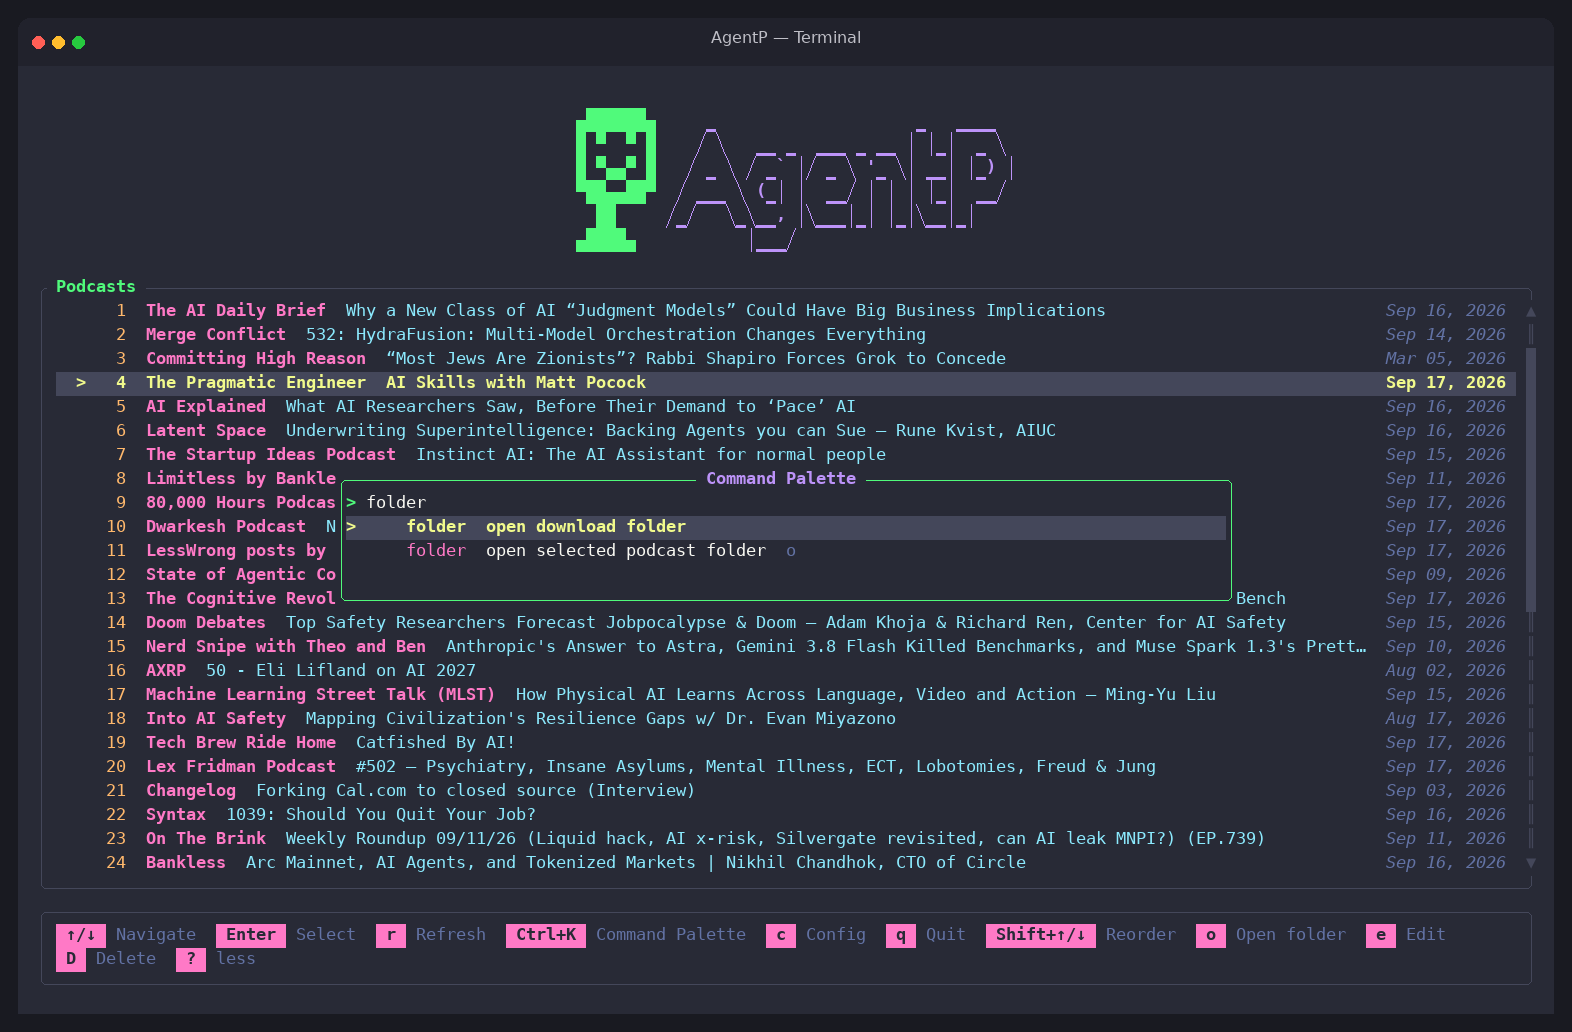
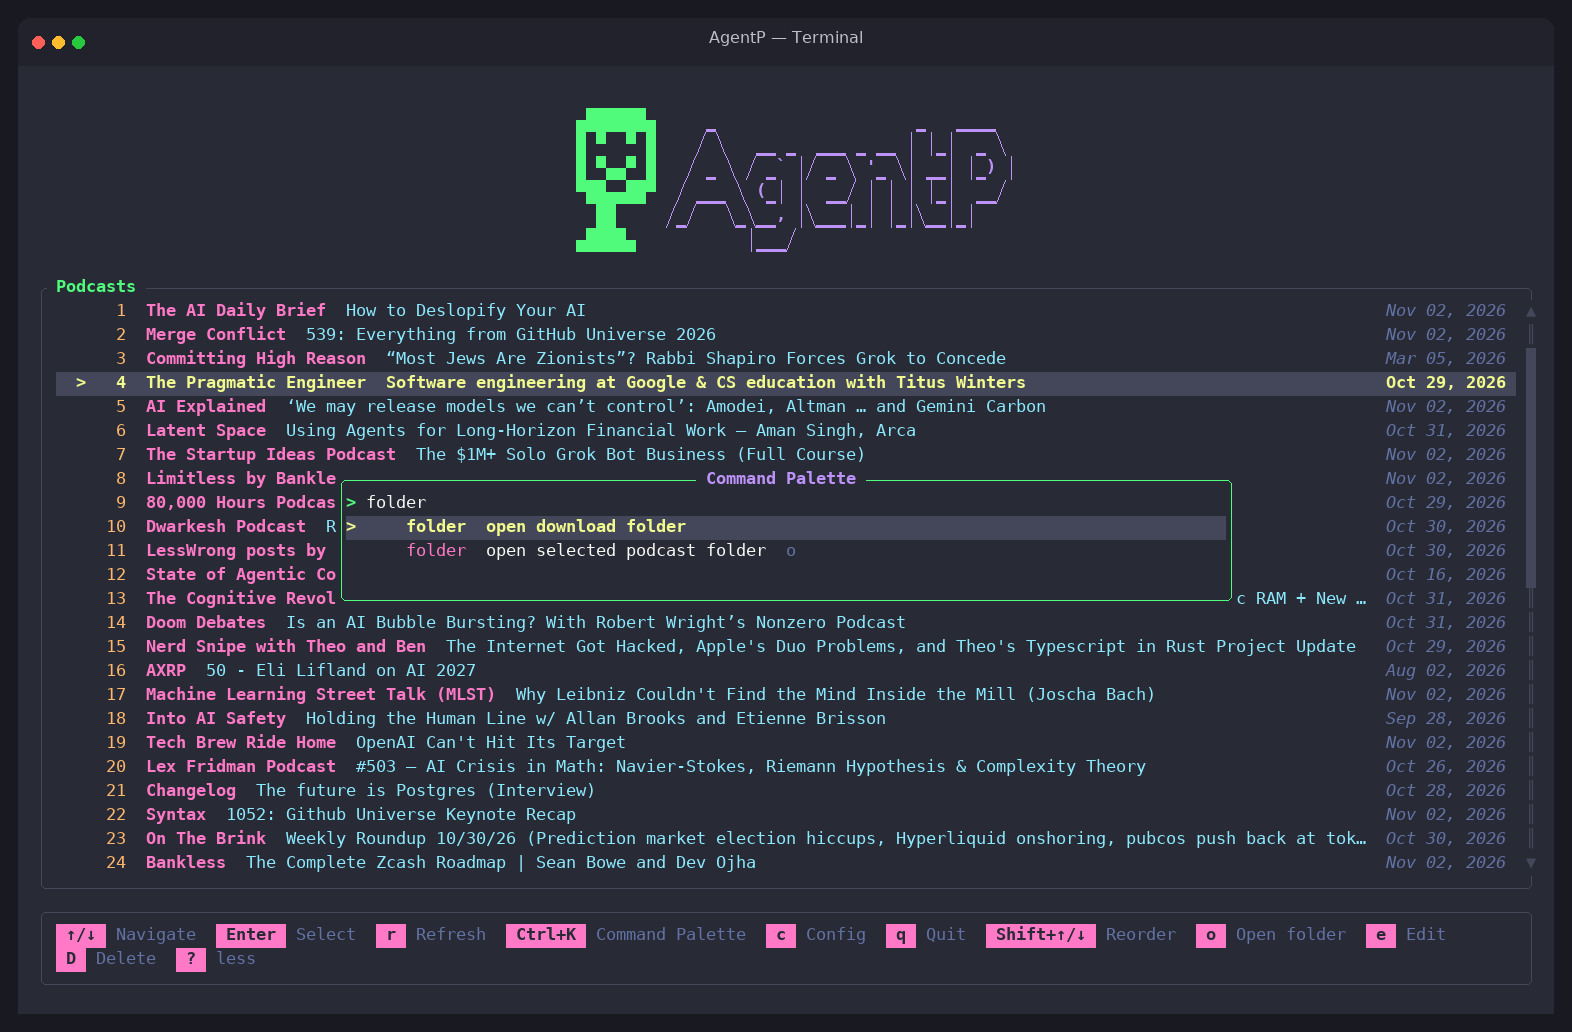
Refresh README media for search, go-to, and feed errors
- New search-and-jump.gif: search Syntax's episodes, keep the filter,
  jump to episode 1000 by typing its number, and find both actions in
  the command palette.
- add-from-feed.gif first shows Prepopulate explaining that a non-feed
  URL returned a web page.
- Every other GIF and screenshot regenerated, so they show numbered
  episode rows and the new hints.
- capture_media.py gains the search walkthrough, an AGENTP_MEDIA_FONTS
  override, and a loading check that no longer trips on episode titles
  containing "Loading".

diff --git a/docs/capture_media.py b/docs/capture_media.py
@@ -1,4 +1,4 @@
-"""Regenerate the README's four screenshots and three GIFs from the real TUI.
+"""Regenerate the README's four screenshots and four GIFs from the real TUI.
 
 This is Linux-only documentation tooling, not part of the AgentP application.
 Run from the repository root with network access for live RSS feeds:
@@ -10,8 +10,9 @@ Run from the repository root with network access for live RSS feeds:
 
 Install DejaVu Sans and Sans Mono, including Bold and Oblique faces, under
 /usr/share/fonts/truetype/dejavu (Debian/Ubuntu: fonts-dejavu-core and
-fonts-dejavu-extra). The script overwrites the seven files in docs/assets;
-inspect them before committing. Episode titles and dates vary with live feeds.
+fonts-dejavu-extra), or point AGENTP_MEDIA_FONTS at a folder holding them.
+The script overwrites the eight files in docs/assets; inspect them before
+committing. Episode titles and dates vary with live feeds.
 
 Each walkthrough starts target/debug/agentp in a pseudo-terminal with a
 disposable HOME seeded from example.podcasts.json. Keystrokes drive the app;
@@ -19,9 +20,11 @@ pyte interprets its terminal output and Pillow renders the cells into a framed
 terminal image. Screen assertions reject unexpected states before capture.
 Pauses sample live output to preserve animation, then frames become looping GIFs.
 
-The walkthroughs browse and select episodes, filter the command palette and
-visit configuration, and prepopulate The Pragmatic Engineer from its RSS feed.
-They never download audio or edit the user's configuration.
+The walkthroughs browse and select episodes, search Syntax's episodes and jump
+to one by number, filter the command palette and visit configuration, and
+prepopulate The Pragmatic Engineer from its RSS feed after a URL that is not a
+feed shows why Prepopulate failed. They never download audio or edit the
+user's configuration.
 """
 
 import codecs
@@ -45,7 +48,7 @@ ASSETS = ROOT / "docs/assets"
 COLS, ROWS = 150, 38
 CELL_W, CELL_H, PAD, OUTER, TITLE_H = 10, 24, 18, 18, 48
 BG, PAGE_BG, TITLE_BG = "#282a36", "#191a21", "#21222c"
-FONTS = Path("/usr/share/fonts/truetype/dejavu")
+FONTS = Path(os.environ.get("AGENTP_MEDIA_FONTS", "/usr/share/fonts/truetype/dejavu"))
 FONT = ImageFont.truetype(str(FONTS / "DejaVuSansMono.ttf"), 17)
 BOLD = ImageFont.truetype(str(FONTS / "DejaVuSansMono-Bold.ttf"), 17)
 ITALIC = ImageFont.truetype(str(FONTS / "DejaVuSansMono-Oblique.ttf"), 17)
@@ -324,7 +327,7 @@ class Terminal:
         for value in expected:
             assert value in text, (value, text)
         assert " more" not in "\n".join(self.screen.display[-4:]), text
-        assert "Loading" not in text, text
+        assert "Loading episodes" not in text, text
         assert "Error:" not in text, text
         frame = self.render()
         if screenshot:
@@ -393,6 +396,44 @@ def browse():
         t.gif("browse-and-select.gif")
 
 
+def search():
+    """Capture searching Syntax's episodes, keeping the filter, and jumping by number."""
+    with Terminal() as t:
+        t.send(b"j" * 21)
+        t.capture(1000, expected=("Syntax",))
+        t.send(b"\r")
+        t.wait_for(
+            lambda: "Loading episodes" not in t.text() and "[ ]" in t.text()
+        )
+        t.capture(1600, expected=("Syntax", "[ ]", "Search", "Go to #"))
+        t.send(b"/")
+        t.capture(900, expected=("Search:",))
+        for ch in b"rust":
+            t.send(bytes([ch]))
+            t.capture(250)
+        t.capture(1800, expected=("Search: rust_", "episodes"))
+        t.send(b"\r")
+        t.capture(1000, expected=("Filter:", "rust"))
+        t.send(b"j ")
+        t.capture(1400, expected=("[x]", "Filter:"))
+        t.send(b"\x1b")
+        t.capture(1200, expected=("[x]",))
+        for ch in b"1000":
+            t.send(bytes([ch]))
+            t.capture(300, expected=("Go to episode #:",))
+        t.capture(1400, expected=("Go to episode #: 1000_",))
+        t.send(b"\r")
+        t.capture(1800, expected=("1000",))
+        t.send(b"\x0b")
+        for ch in b"episode":
+            t.send(bytes([ch]))
+            t.capture(120)
+        t.capture(2200, expected=("search episodes", "go to episode number", "#/0-9"))
+        t.send(b"\x1b")
+        t.capture(900)
+        t.gif("search-and-jump.gif")
+
+
 def palette():
     """Capture folder-action filtering and configuration navigation."""
     with Terminal() as t:
@@ -426,6 +467,17 @@ def add():
         t.capture(1000, expected=("add",))
         t.send(b"\r")
         t.capture(1000, expected=("Feed URL",))
+        not_a_feed = "https://example.com/"
+        t.send(not_a_feed.encode())
+        t.capture(700, expected=(not_a_feed,))
+        t.send(b"\r")
+        t.capture(700, expected=("Manual", "Prepopulate"))
+        t.send(b"p")
+        t.wait_for(lambda: "Prepopulate failed" in t.text())
+        t.capture(2600, expected=("Prepopulate failed", "web page"))
+        t.send(b"\x1b")
+        t.send(b"\x7f" * len(not_a_feed))
+        t.capture(500, expected=("Feed URL",))
         for start in range(0, len(feed), 8):
             t.send(feed[start : start + 8].encode())
             t.capture(150)
@@ -446,5 +498,6 @@ def add():
 
 if __name__ == "__main__":
     browse()
+    search()
     palette()
     add()

diff --git a/README.md b/README.md
@@ -74,10 +74,16 @@ Podcast selectors accept either a 1-based index or a case-insensitive name. A su
 
 ## See AgentP in action
 
+### Search episodes and jump to one by number
+
+<p align="center">
+  <img src="docs/assets/search-and-jump.gif" alt="Searching Syntax's episodes for rust, selecting a match, clearing the filter, jumping to episode 1000, and finding both actions in the command palette" width="1572">
+</p>
+
 ### Add a podcast from its RSS feed
 
 <p align="center">
-  <img src="docs/assets/add-from-feed.gif" alt="Adding The Pragmatic Engineer from its RSS feed and prepopulating its name, album, and artist" width="1572">
+  <img src="docs/assets/add-from-feed.gif" alt="Prepopulate explaining that a non-feed URL returned a web page, then adding The Pragmatic Engineer from its RSS feed and prepopulating its name, album, and artist" width="1572">
 </p>
 
 ### Find actions and update configuration
